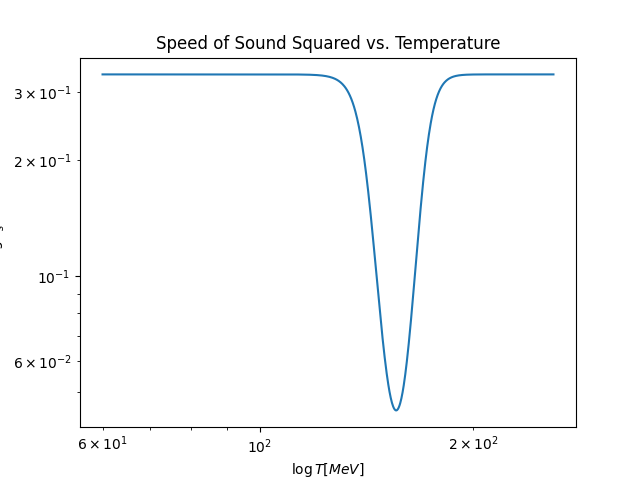
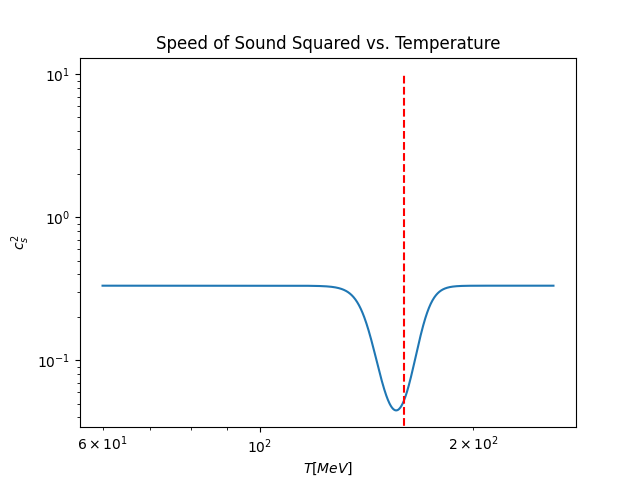
new graphs

diff --git a/src/eos.py b/src/eos.py
@@ -24,8 +24,8 @@ plt.clf()
 
 for Gamma in [1e0, 1e1, 1e2, 1e3]:
     plt.plot(T, s(T, Gamma), label = r'$\Gamma = {}$ MeV'.format(Gamma))
-plt.xlabel(r'$\log T$ [MeV]')
-plt.ylabel(r'$\log S(T)$')
+plt.xlabel(r'$T$ [MeV]')
+plt.ylabel(r'$S(T)$')
 plt.xscale('log')
 plt.yscale('log')
 plt.title(r'Entropy Density vs. Temperature for different $\Gamma$')
@@ -45,8 +45,8 @@ plt.clf()
 
 for Gamma in [1e0, 1e1, 1e2, 1e3]:
     plt.plot(T, sT3(T, Gamma), label = r'$\Gamma = {}$ MeV'.format(Gamma))
-plt.xlabel(r'$\log T$ [MeV]')
-plt.ylabel(r'$\log S(T) / T^3$')
+plt.xlabel(r'$ T$ [MeV]')
+plt.ylabel(r'$ S(T) / T^3$')
 plt.xscale('log')
 plt.yscale('log')
 plt.title(r'Entropy Density vs. Temperature / $T^3$ for different $\Gamma$s')
@@ -72,9 +72,9 @@ plt.legend()
 plt.savefig("..\\results\\3_pressure_energy_vs_temperature.png")
 plt.clf()
 
-plt.plot(T, P(T), label = r'$\log P(T)$')
-plt.plot(T, e(T), label = r'$\log \epsilon(T)$')
-plt.xlabel(r'$\log T$ [MeV]')
+plt.plot(T, P(T), label = r'$ P(T)$')
+plt.plot(T, e(T), label = r'$ \epsilon(T)$')
+plt.xlabel(r'$ T$ [MeV]')
 plt.title(r'Pressure and Energy Density vs. Temperature')
 plt.legend()
 plt.xscale('log')
@@ -90,9 +90,9 @@ plt.legend()
 plt.savefig("..\\results\\4_pressure_energy_over_T4_vs_temperature.png")
 plt.clf()
 
-plt.plot(T, P(T) / T ** 4, label = r'$\log P(T) / T^4$')
-plt.plot(T, e(T) / T ** 4, label = r'$\log \epsilon(T) / T^4$')
-plt.xlabel(r'$\log T$ [MeV]')
+plt.plot(T, P(T) / T ** 4, label = r'$ P(T) / T^4$')
+plt.plot(T, e(T) / T ** 4, label = r'$ \epsilon(T) / T^4$')
+plt.xlabel(r'$ T$ [MeV]')
 plt.title(r'Pressure and Energy Density over $T^4$ vs. Temperature')
 plt.legend()
 plt.xscale('log')
@@ -110,6 +110,8 @@ def e_idealgas(T):
 def Delta(T):
     return (e(T) - e_idealgas(T)) / T ** 4
 
+T = np.linspace(60, 600, 2000)
+
 plt.plot(T, e(T) / T ** 4, label = r'$\epsilon / T^4$')
 plt.plot(T, e_idealgas(T) / T ** 4, label = r'$\epsilon_{ideal gas} / T^4$')
 plt.plot(T, Delta(T), label = r'$\Delta$')
@@ -123,8 +125,8 @@ plt.clf()
 plt.plot(T, e(T) / T ** 4, label = r'$\epsilon / T^4$')
 plt.plot(T, e_idealgas(T) / T ** 4, label = r'$\epsilon_{ideal gas} / T^4$')
 plt.plot(T, Delta(T), label = r'$\Delta$')
-plt.xlabel(r'$\log T$ [MeV]')
-plt.ylabel(r'$\log $ Energy Density / $ T^4$')
+plt.xlabel(r'$ T$ [MeV]')
+plt.ylabel(r'Energy Density /$ T^4$')
 plt.title(r'Energy Densities vs. Temperature / $T^4$')
 plt.xscale('log')
 plt.yscale('log')
@@ -135,6 +137,8 @@ plt.clf()
 def cs2(T):
     return (np.diff(np.log(T))  / np.diff(np.log(s(T))))
 
+T = np.linspace(60, 260, 1000)
+
 cs2T = cs2(T)
 T = T[:-1]
 
@@ -142,14 +146,17 @@ plt.plot(T, cs2T)
 plt.xlabel(r'$T [MeV]$')
 plt.ylabel(r'$c_s^2$')
 plt.title(r'Speed of Sound Squared vs. Temperature')
+# plot a vertical line at Tc
+plt.vlines(x = Tc, ymin = 0, ymax = 0.6, color = 'r', linestyle = '--')
 plt.savefig("..\\results\\6_speed_of_sound_squared_vs_temperature.png")
 plt.clf()
 
 plt.plot(T, cs2T)
-plt.xlabel(r'$\log T [MeV]$')
-plt.ylabel(r'$\log c_s^2$')
+plt.xlabel(r'$ T [MeV]$')
+plt.ylabel(r'$ c_s^2$')
 plt.xscale('log')
 plt.yscale('log')
 plt.title(r'Speed of Sound Squared vs. Temperature')
+plt.vlines(x = Tc, ymin = 0, ymax = 1e1, color = 'r', linestyle = '--')
 plt.savefig("..\\results\\6_speed_of_sound_squared_vs_temperature_log.png")
 plt.clf()
